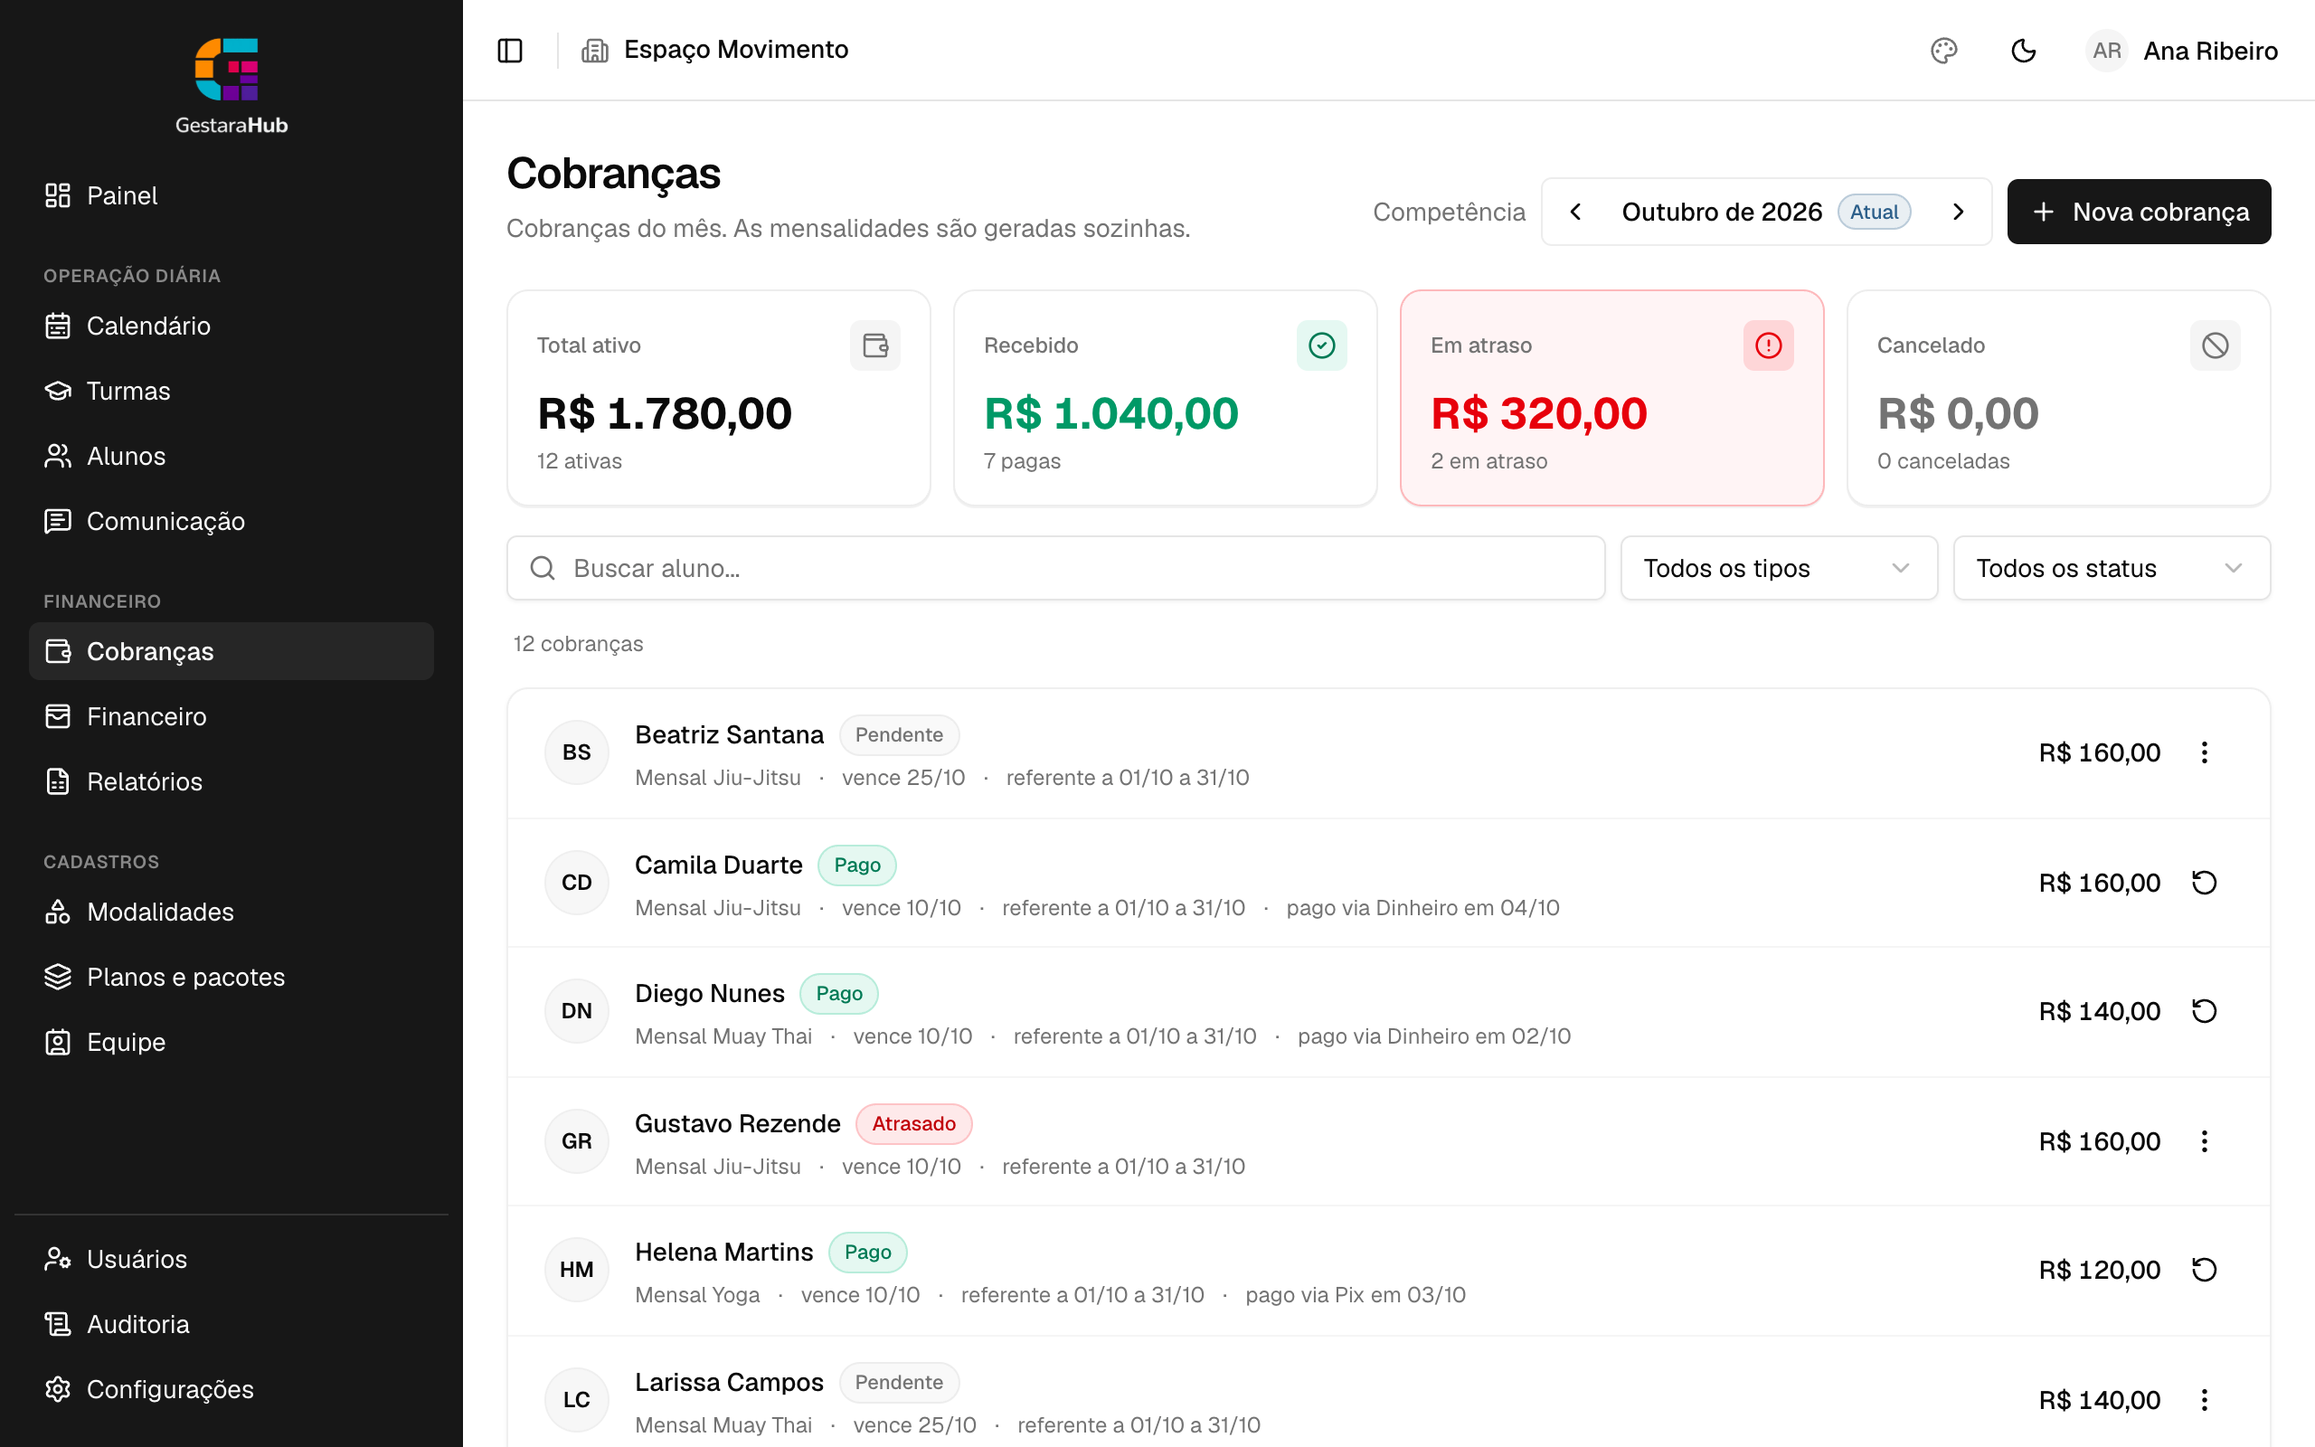
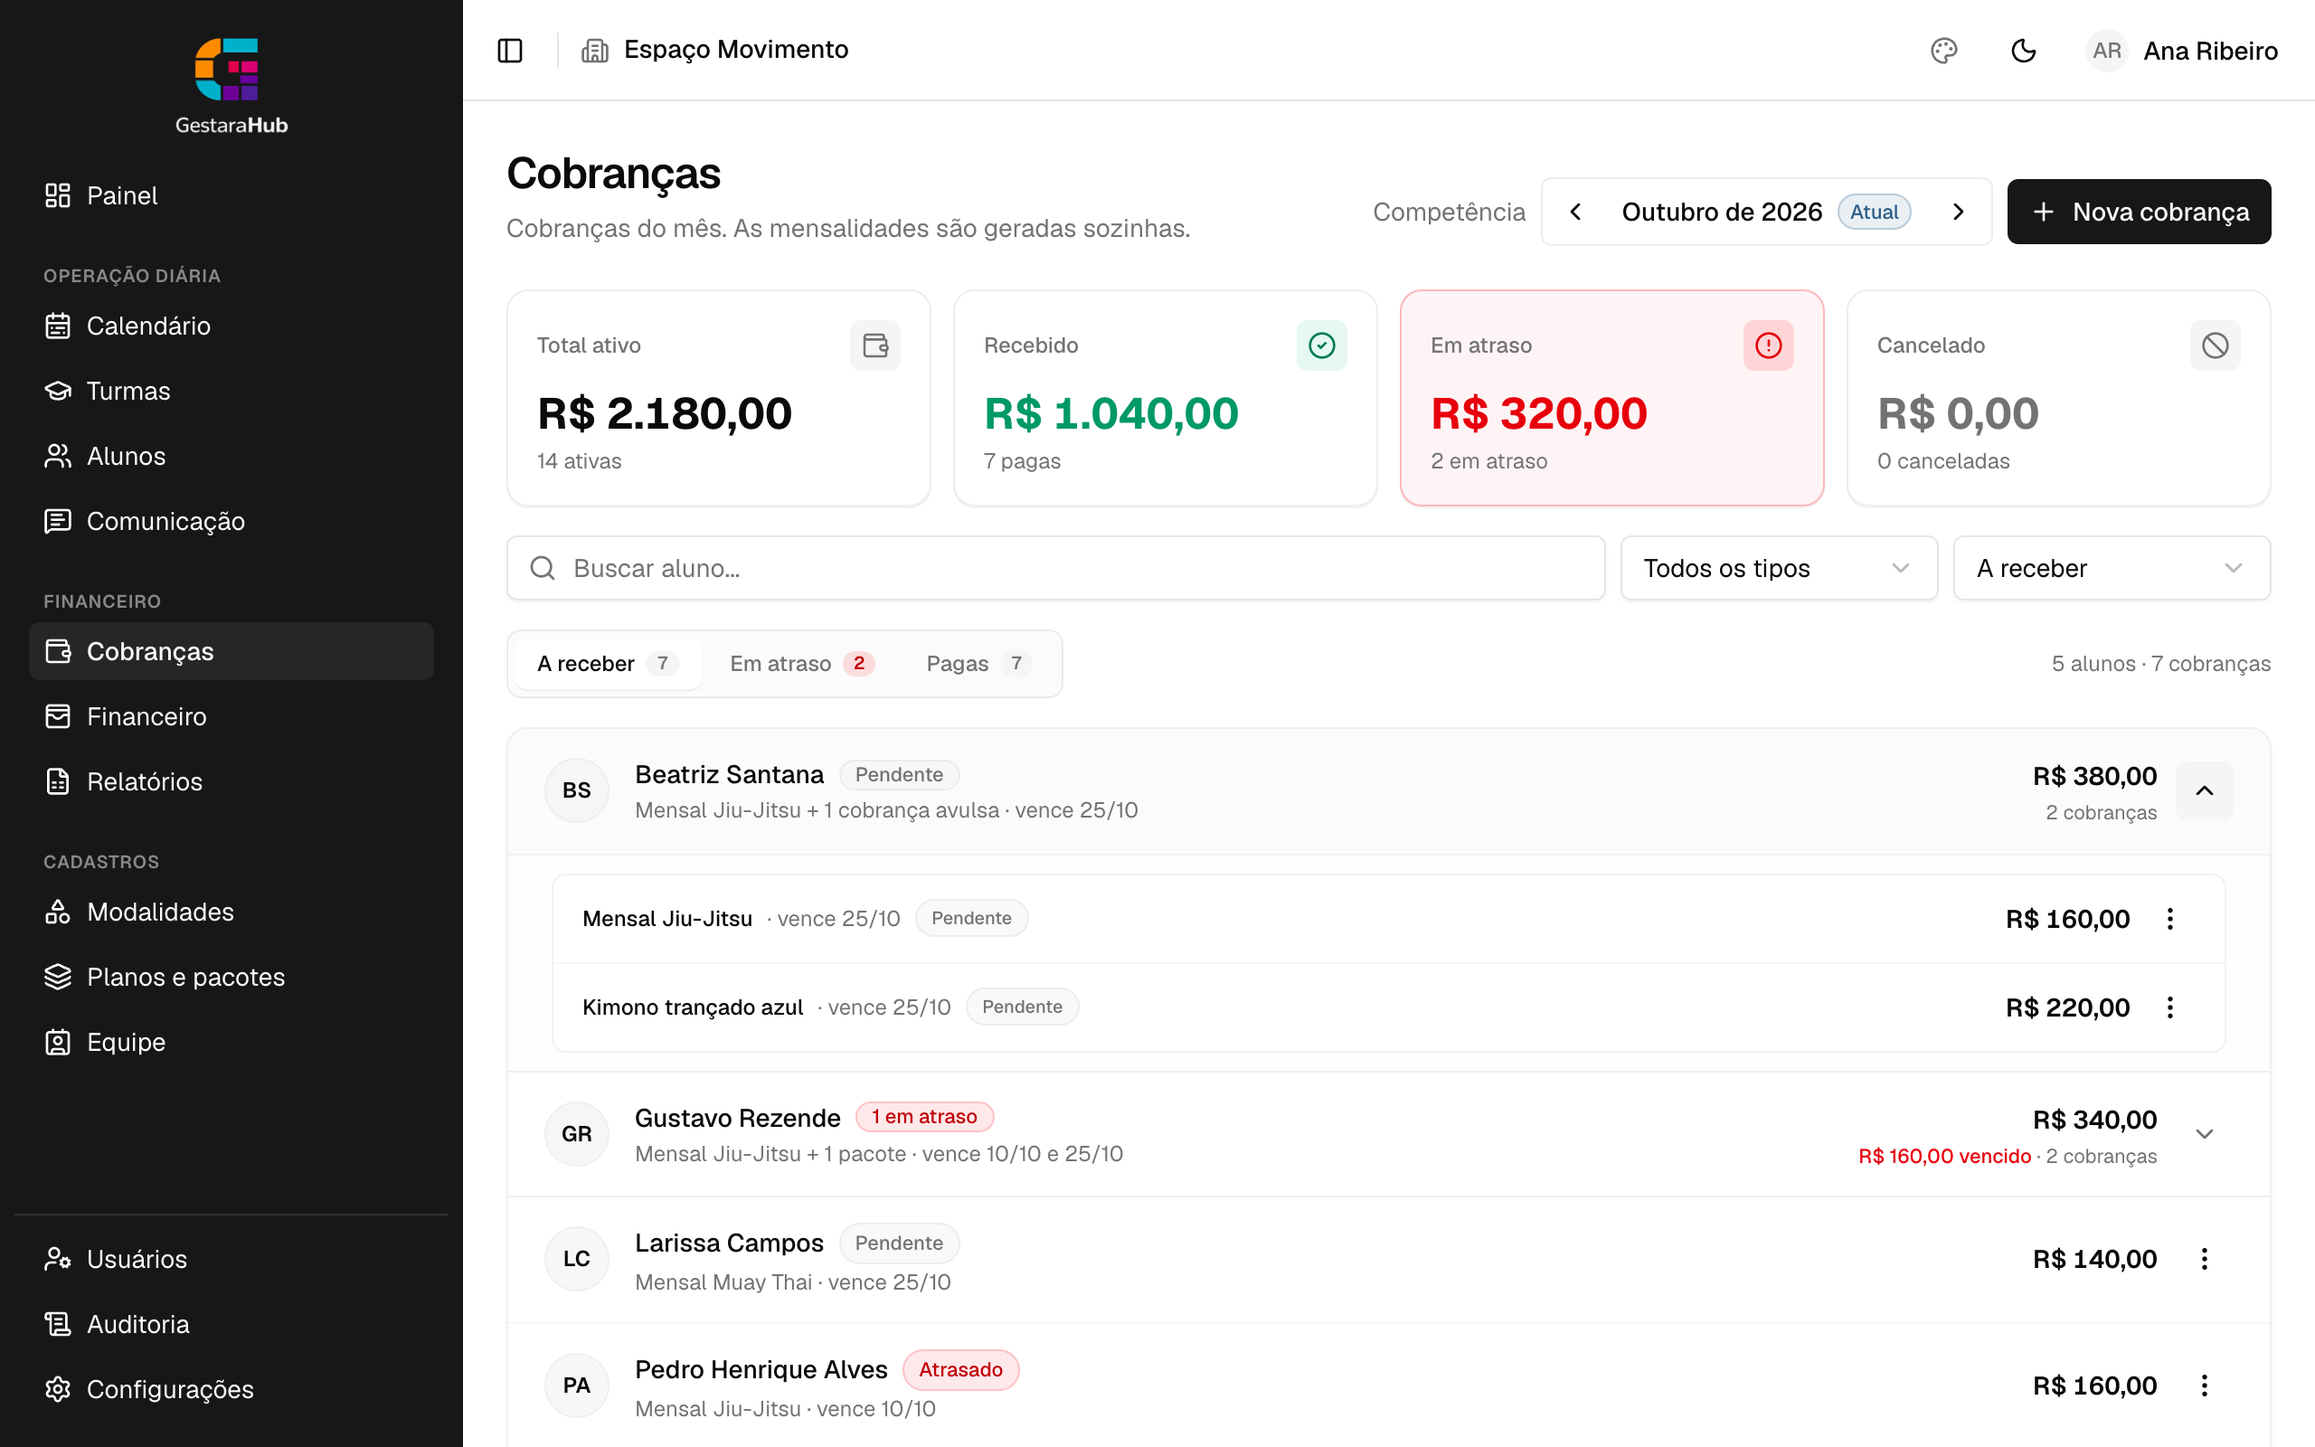
feat(landing): dark theme default and 6-screen system showcase

diff --git a/apps/web/scripts/landing-screenshots/capture.spec.ts b/apps/web/scripts/landing-screenshots/capture.spec.ts
@@ -86,9 +86,9 @@ async function buildDemo(page: Page) {
     t.plans = plans.map(([id, name, priceCents]) => ({ ...base, id, name, priceCents, period: "monthly" }));
     const slots = (days: number[], start: string, end: string) => days.map((weekday) => ({ weekday, start, end }));
     t.classGroups = [
-      { id: "cg-jj", name: "Jiu-Jitsu Adulto", modalityId: jj, instructorId: "pr-1", capacity: 20, meetingSlots: slots(JJ_DAYS, START, END) },
-      { id: "cg-mt", name: "Muay Thai", modalityId: mt, instructorId: "pr-2", capacity: 15, meetingSlots: slots([1, 3], "18:00", "19:00") },
-      { id: "cg-yg", name: "Yoga Manhã", modalityId: "m-yg", instructorId: "pr-3", capacity: 10, meetingSlots: slots([2, 4], "07:00", "08:00") },
+      { id: "cg-jj", name: "Jiu-Jitsu Adulto", modalityId: jj, instructorId: "pr-1", capacity: 20, meetingSlots: slots([...new Set([...JJ_DAYS, 5])], START, END) },
+      { id: "cg-mt", name: "Muay Thai", modalityId: mt, instructorId: "pr-2", capacity: 15, meetingSlots: slots([1, 3, 5], "18:00", "19:00") },
+      { id: "cg-yg", name: "Yoga Manhã", modalityId: "m-yg", instructorId: "pr-3", capacity: 10, meetingSlots: slots([2, 4, 6], "07:00", "08:00") },
     ].map((g) => ({ ...base, unitId: UNIT, allowDropin: true, sessionPriceCents: 4000, startDate: "2026-03-02", billingMode: "membership", ...g }));
     t.clients = STUDENTS.map(([id, name, cg, dueDay], i) => ({
       ...base,
@@ -152,7 +152,7 @@ async function buildDemo(page: Page) {
         kind: "membership",
         planId,
         competence: MONTH,
-        dueDate: `${MONTH}-${dueDay}`,
+        dueDate: `${MONTH}-${pad(dueDay)}`,
         periodStart: `${MONTH}-01`,
         periodEnd: lastDay,
         amountCents,
@@ -162,12 +162,114 @@ async function buildDemo(page: Page) {
         updatedAt: TS,
       };
     });
-    // Lucas vem a todas; os outros faltam de vez em quando. Hoje: 5 presentes, 2 a marcar.
+    // Segunda cobranca para Gustavo e Beatriz (mostra o agrupamento por aluno em Cobrancas).
+    t.charges.push(
+      {
+        id: "ch-extra-gustavo",
+        organizationId: ORG,
+        unitId: UNIT,
+        studentId: "s-gustavo",
+        kind: "package",
+        description: "Pacote 8 aulas · Muay Thai",
+        competence: MONTH,
+        dueDate: `${MONTH}-25`,
+        amountCents: 18000,
+        status: "pending",
+        createdAt: TS,
+        updatedAt: TS,
+      },
+      {
+        id: "ch-extra-beatriz",
+        organizationId: ORG,
+        unitId: UNIT,
+        studentId: "s-beatriz",
+        kind: "extra",
+        description: "Kimono trançado azul",
+        competence: MONTH,
+        dueDate: `${MONTH}-25`,
+        amountCents: 22000,
+        status: "pending",
+        createdAt: TS,
+        updatedAt: TS,
+      },
+    );
+    // Financeiro: categorias de despesa, lancamentos do mes e regras dos professores.
+    t.financialCategories.push(
+      { ...base, id: "fc-rent", type: "expense", name: "Aluguel e estrutura" },
+      { ...base, id: "fc-util", type: "expense", name: "Contas e internet" },
+      { ...base, id: "fc-equip", type: "expense", name: " Tatame e equipamentos" },
+    );
+    t.financialEntries = [
+      {
+        ...base,
+        id: "fe-1",
+        unitId: UNIT,
+        type: "expense",
+        categoryId: "fc-rent",
+        description: "Aluguel do espaço",
+        amountCents: 18000,
+        dueDate: `${MONTH}-05`,
+        status: "paid",
+        paidAt: `${MONTH}-05T10:00:00.000Z`,
+        method: "pix",
+      },
+      {
+        ...base,
+        id: "fe-2",
+        unitId: UNIT,
+        type: "expense",
+        categoryId: "fc-util",
+        description: "Energia elétrica e internet fibra",
+        amountCents: 6500,
+        dueDate: `${MONTH}-10`,
+        status: "paid",
+        paidAt: `${MONTH}-09T15:00:00.000Z`,
+        method: "pix",
+      },
+      {
+        ...base,
+        id: "fe-3",
+        unitId: UNIT,
+        type: "expense",
+        categoryId: "fc-equip",
+        description: "Higienização e manutenção do tatame",
+        amountCents: 4500,
+        dueDate: `${MONTH}-25`,
+        status: "pending",
+      },
+    ];
+    t.teacherPayRules = [
+      {
+        ...base,
+        id: "tpr-1",
+        professionalId: "pr-1",
+        components: [{ kind: "percent_of_memberships", percent: 40 }],
+        paymentDay: 5,
+        startCompetence: "2026-01",
+      },
+      {
+        ...base,
+        id: "tpr-2",
+        professionalId: "pr-2",
+        components: [{ kind: "per_session", amountCents: 5000 }],
+        paymentDay: 5,
+        startCompetence: "2026-01",
+      },
+      {
+        ...base,
+        id: "tpr-3",
+        professionalId: "pr-3",
+        components: [{ kind: "fixed_monthly", amountCents: 15000 }],
+        paymentDay: 5,
+        startCompetence: "2026-01",
+      },
+    ];
+    // Lucas vem a todas; Gustavo faltou nas ultimas (aparece em Alunos sumindo no Painel). Hoje: 5 presentes, 2 a marcar.
     const jjStudents = STUDENTS.filter(([, , cg]) => cg === "cg-jj").map(([id]) => id);
     t.attendances = [];
     PAST.forEach((date, k) => {
       jjStudents.forEach((sid, i) => {
-        const absent = sid !== "s-lucas" && (i + k) % 4 === 3;
+        const absent = sid === "s-gustavo" || (sid !== "s-lucas" && (i + k) % 4 === 3);
         t.attendances.push({ id: `a-${date}-${sid}`, sessionId: `cg-jj~${date}~${START}`, studentId: sid, status: absent ? "absent" : "present", markedAt: `${date}T22:00:00.000Z` });
       });
     });
@@ -181,7 +283,13 @@ async function buildDemo(page: Page) {
 // SHOTS=attendance,student refaz so esses (padrao: todos).
 const ONLY = process.env.SHOTS?.split(",").map((s) => s.trim());
 
-async function shoot(page: Page, name: string, url: string, size: { width: number; height: number }) {
+async function shoot(
+  page: Page,
+  name: string,
+  url: string,
+  size: { width: number; height: number },
+  beforeShot?: (page: Page) => Promise<void>,
+) {
   if (ONLY && !ONLY.includes(name)) return;
   await page.setViewportSize(size);
   for (const theme of ["light", "dark"]) {
@@ -190,7 +298,11 @@ async function shoot(page: Page, name: string, url: string, size: { width: numbe
     await page.waitForLoadState("networkidle");
     // Some o selo de desenvolvimento do Next.
     await page.addStyleTag({ content: "nextjs-portal{display:none!important}" });
-    await page.waitForTimeout(1500);
+    await page.waitForTimeout(1200);
+    if (beforeShot) {
+      await beforeShot(page);
+      await page.waitForTimeout(400);
+    }
     await page.screenshot({ path: `${OUT}/${name}-${theme}.png` });
   }
 }
@@ -204,8 +316,30 @@ test("telas da landing", async ({ page }) => {
     localStorage.setItem("gestarahub_tour_plans_tabs", "1");
   });
   await buildDemo(page);
+  await shoot(
+    page,
+    "dashboard",
+    "/dashboard",
+    { width: 1280, height: 800 },
+    async (p) => {
+      const closeBtn = p.getByRole("button", { name: "Fechar", exact: true });
+      if (await closeBtn.isVisible()) await closeBtn.click();
+    },
+  );
   await shoot(page, "attendance", `/classes/sessions/${encodeURIComponent(`cg-jj~${TODAY}~${START}`)}`, { width: 390, height: 844 });
-  await shoot(page, "billing", "/classes/billing", { width: 1280, height: 800 });
+  await shoot(page, "calendar", "/classes/calendar", { width: 1280, height: 800 });
+  await shoot(
+    page,
+    "billing",
+    "/classes/billing",
+    { width: 1280, height: 800 },
+    async (p) => {
+      // Expande o Gustavo para mostrar o agrupamento de cobrancas por aluno aberto.
+      const btn = p.getByRole("button", { name: "Ver cobranças" }).first();
+      if (await btn.isVisible()) await btn.click();
+    },
+  );
+  await shoot(page, "finance", "/finance", { width: 1280, height: 800 });
   // Ficha em sanfona: abre a evolucao (faixa, graus e pontos fortes).
   await shoot(page, "student", "/clients/s-lucas?tab=evolution", { width: 1280, height: 800 });
 });

diff --git a/apps/web/src/features/landing/components/landing-showcase.tsx b/apps/web/src/features/landing/components/landing-showcase.tsx
@@ -2,10 +2,16 @@
 
 import { useState } from "react";
 import Image, { type StaticImageData } from "next/image";
+import dashboardLight from "@/assets/landing/dashboard-light.png";
+import dashboardDark from "@/assets/landing/dashboard-dark.png";
 import attendanceLight from "@/assets/landing/attendance-light.png";
 import attendanceDark from "@/assets/landing/attendance-dark.png";
+import calendarLight from "@/assets/landing/calendar-light.png";
+import calendarDark from "@/assets/landing/calendar-dark.png";
 import billingLight from "@/assets/landing/billing-light.png";
 import billingDark from "@/assets/landing/billing-dark.png";
+import financeLight from "@/assets/landing/finance-light.png";
+import financeDark from "@/assets/landing/finance-dark.png";
 import studentLight from "@/assets/landing/student-light.png";
 import studentDark from "@/assets/landing/student-dark.png";
 import { cn } from "@/lib/utils";
@@ -25,6 +31,24 @@ interface Screen {
 // recapturar: scripts/landing-screenshots (doc 08, secao 3.11).
 const SCREENS: Screen[] = [
   {
+    key: "dashboard",
+    label: "Painel",
+    caption: "Aulas do dia, alunos sumindo e cobranças em atraso num só lugar.",
+    alt: "Painel inicial com as aulas de hoje, presenças, mensalidades recebidas e avisos do dia",
+    device: "desktop",
+    light: dashboardLight,
+    dark: dashboardDark,
+  },
+  {
+    key: "billing",
+    label: "Cobranças",
+    caption: "Quem pagou e quem atrasou, agrupado por aluno.",
+    alt: "Tela de cobranças do mês com o total recebido, os valores em atraso e a lista agrupada por aluno",
+    device: "desktop",
+    light: billingLight,
+    dark: billingDark,
+  },
+  {
     key: "attendance",
     label: "Chamada",
     caption: "Presença em um toque, direto no celular.",
@@ -34,15 +58,6 @@ const SCREENS: Screen[] = [
     dark: attendanceDark,
   },
   {
-    key: "billing",
-    label: "Cobranças",
-    caption: "Quem pagou e quem atrasou, mês a mês.",
-    alt: "Tela de cobranças do mês com o total recebido, os valores em atraso e a lista de mensalidades",
-    device: "desktop",
-    light: billingLight,
-    dark: billingDark,
-  },
-  {
     key: "student",
     label: "Ficha do aluno",
     caption: "Faixa, frequência e pagamentos num lugar só.",
@@ -50,6 +65,24 @@ const SCREENS: Screen[] = [
     device: "desktop",
     light: studentLight,
     dark: studentDark,
+  },
+  {
+    key: "finance",
+    label: "Financeiro",
+    caption: "Entradas, despesas e o pagamento de cada professor calculado.",
+    alt: "Tela do financeiro com o saldo do mês, entradas, saídas e contas a pagar dos professores",
+    device: "desktop",
+    light: financeLight,
+    dark: financeDark,
+  },
+  {
+    key: "calendar",
+    label: "Calendário",
+    caption: "Horários da semana, vagas e instrutores num quadro só.",
+    alt: "Calendário semanal de turmas com aulas de Jiu-Jitsu, Muay Thai e Yoga distribuídas pelos dias da semana",
+    device: "desktop",
+    light: calendarLight,
+    dark: calendarDark,
   },
 ];
 

diff --git a/apps/web/e2e/landing.spec.ts b/apps/web/e2e/landing.spec.ts
@@ -150,11 +150,11 @@ test.describe("landing page", () => {
     const showcase = page.locator("#o-sistema");
     await showcase.scrollIntoViewIfNeeded();
     const tabs = showcase.getByRole("tab");
-    await expect(tabs).toHaveText(["Chamada", "Cobranças", "Ficha do aluno"]);
+    await expect(tabs).toHaveText(["Painel", "Cobranças", "Chamada", "Ficha do aluno", "Financeiro", "Calendário"]);
     await expect(tabs.first()).toHaveAttribute("aria-selected", "true");
-    await expect(showcase.getByRole("img", { name: /Lista de chamada/ }).first()).toBeVisible();
+    await expect(showcase.getByRole("img", { name: /Painel inicial/ }).first()).toBeVisible();
     await showcase.getByRole("tab", { name: "Cobranças" }).click();
-    await expect(showcase.getByText("Quem pagou e quem atrasou, mês a mês.")).toBeVisible();
+    await expect(showcase.getByText("Quem pagou e quem atrasou, agrupado por aluno.")).toBeVisible();
     await expect(showcase.getByRole("img", { name: /Tela de cobranças/ }).first()).toBeVisible();
     // O hero leva para esta secao.
     await expect(page.getByRole("link", { name: "Ver o sistema" })).toHaveAttribute("href", "#o-sistema");

diff --git a/apps/web/src/lib/providers.tsx b/apps/web/src/lib/providers.tsx
@@ -95,8 +95,8 @@ export function createQueryClient(): QueryClient {
  *   de modulo, para nao compartilhar cache entre requisicoes. As telas logadas
  *   usam um QueryClient proprio por sessao (ver `SessionProvider`); este atende
  *   o que fica fora do app shell (login).
- * - ThemeProvider (next-themes): modo claro e o padrao do MVP; o escuro fica
- *   preparado pelas variaveis `.dark` do globals.css.
+ * - ThemeProvider (next-themes): modo escuro e o padrao do sistema; o claro
+ *   continua disponivel no seletor de tema.
  */
 export function Providers({ children }: { children: ReactNode }) {
   const [queryClient] = useState(createQueryClient);
@@ -110,7 +110,7 @@ export function Providers({ children }: { children: ReactNode }) {
     <QueryClientProvider client={queryClient}>
       <ThemeProvider
         attribute="class"
-        defaultTheme="light"
+        defaultTheme="dark"
         storageKey="gestarahub:theme"
         enableSystem={false}
         disableTransitionOnChange

diff --git a/apps/web/src/app/layout.tsx b/apps/web/src/app/layout.tsx
@@ -34,7 +34,7 @@ export default function RootLayout({
     <html
       lang="pt-BR"
       suppressHydrationWarning
-      className={`${geistSans.variable} ${geistMono.variable} h-full antialiased`}
+      className={`dark ${geistSans.variable} ${geistMono.variable} h-full antialiased`}
     >
       <head>
         <script

diff --git a/apps/web/src/components/theme/theme-customizer.tsx b/apps/web/src/components/theme/theme-customizer.tsx
@@ -99,6 +99,7 @@ export function ThemeCustomizer() {
 
   function handleReset() {
     resetTheme();
+    setTheme("dark");
     toast.success("Tema redefinido para o padrão.");
   }
 
